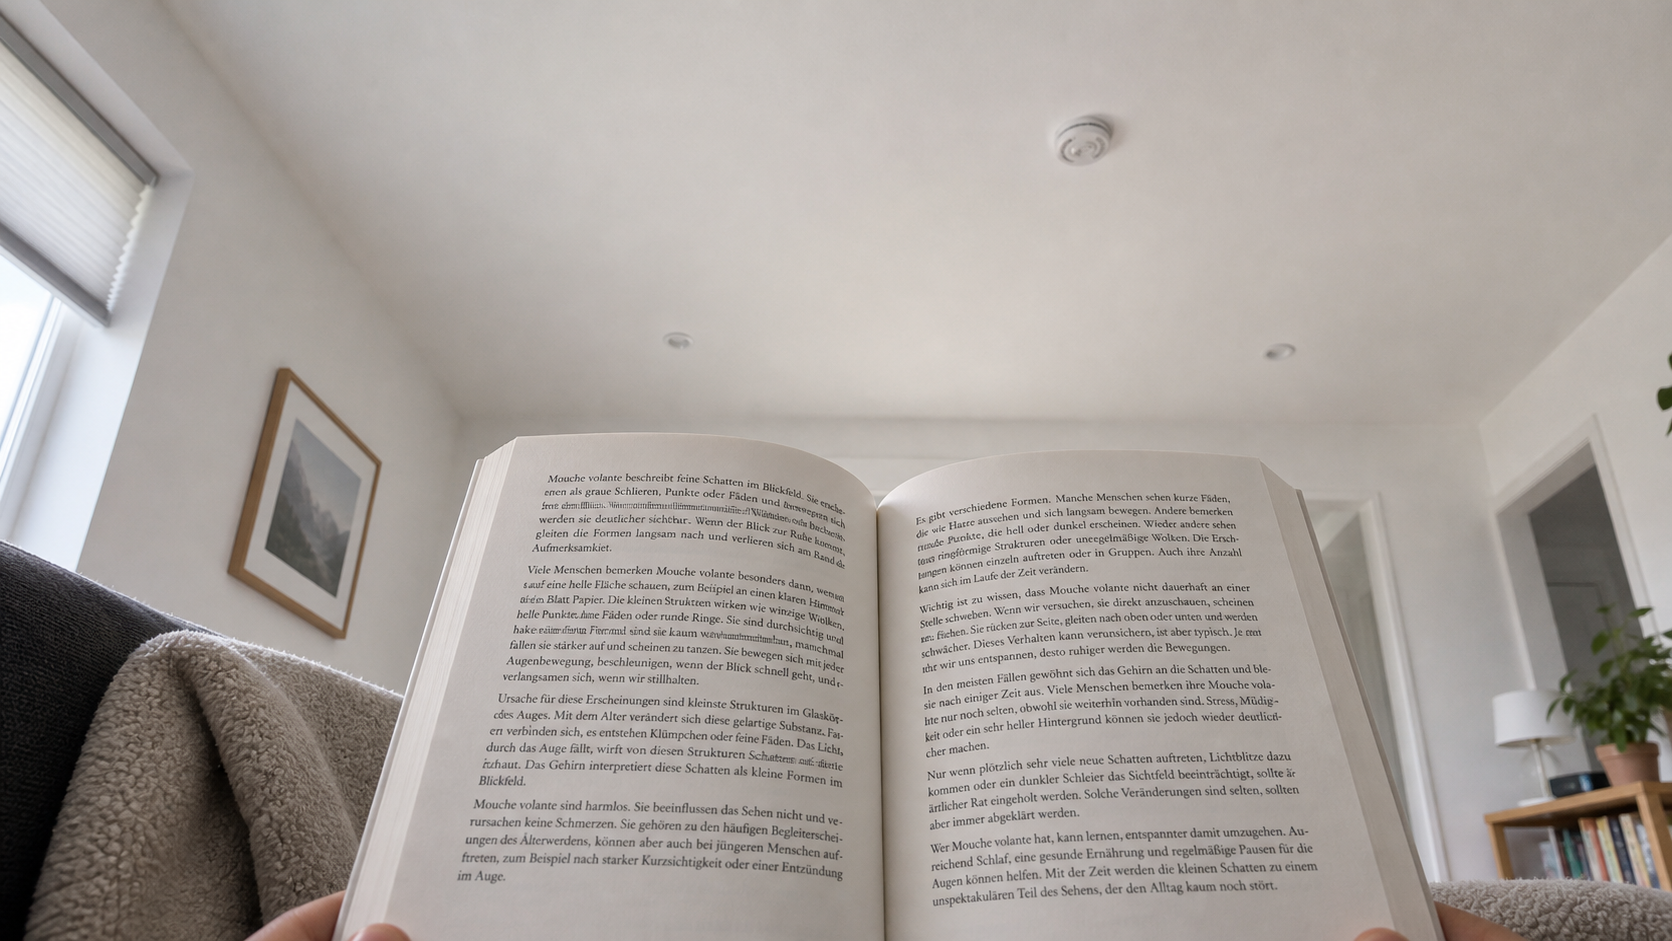
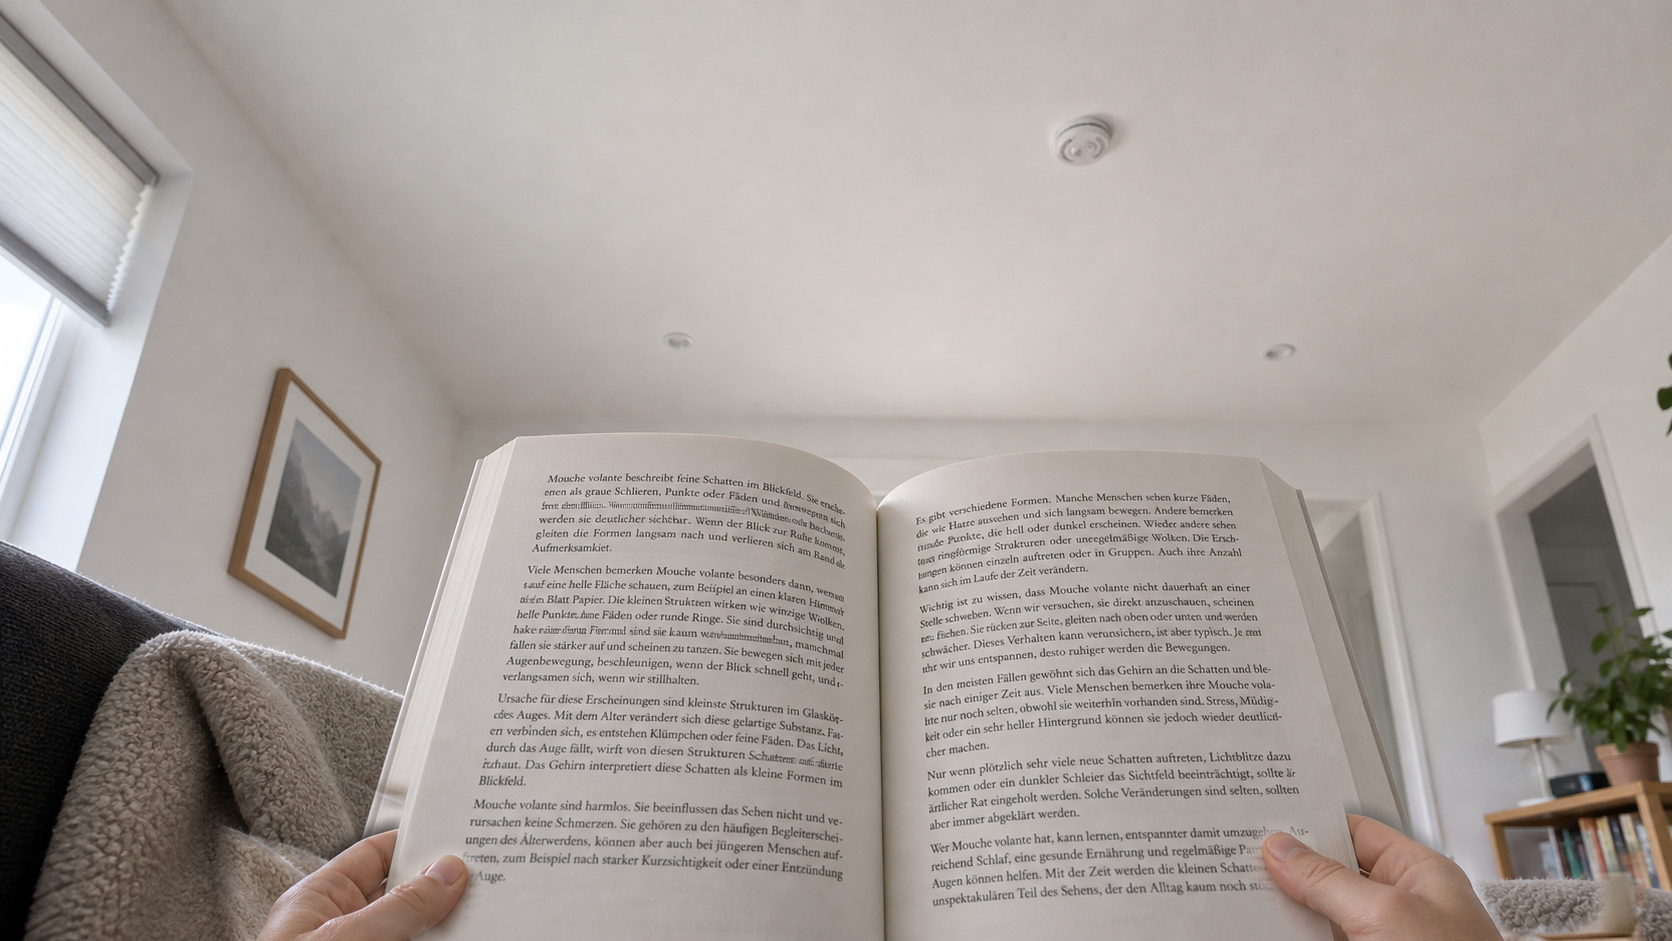
Improve animation performance

Changed region(s): [[0.7464, 0.8629, 0.9952, 1.0], [0.1244, 0.8321, 0.311, 1.0]]

diff --git a/legacy-elements.js b/legacy-elements.js
@@ -56,8 +56,8 @@ const FLOATER_EASE       = 0.08;
 
 /* Fleck als Mini-Superfleck (lokal am Floater) – RESET auf Referenz */
 const FLECK_SUPER_SIZE      = 44;
-const FLECK_SUPER_TINT      = [18,19,24];           // dunklerer HF-Fleck
-const FLECK_SUPER_ALPHA     = 0.54;
+const FLECK_SUPER_TINT      = [72,74,84];           // deutlich hellerer HF-Fleck
+const FLECK_SUPER_ALPHA     = 0.46;
 const FLECK_SUPER_FEATHER   = 1.05;
 const FLECK_SUPER_DRAW_W    = 60 * SCALE * 0.9 * 0.9 * 0.9 * 0.9 * 0.9 * 0.82 * 1.06; // etwas größer
 const FLECK_SUPER_DRAW_H    = FLECK_SUPER_DRAW_W * 0.88;
@@ -96,7 +96,7 @@ const BIGGER_SPEED_SCALE    = 0.15;
 
 /* ======= Grauer Superfleck (visuell rechts, dunkler) ======= */
 const SMALLER_POS_XF          = 0.62;
-const SMALLER_POS_YF          = 0.75;
+const SMALLER_POS_YF          = 0.70;
 const CLOUD_SMALLER_SIZE      = (BASE_UNIT_RADIUS * 2.2 * 5.0 * 5.25 * 0.5 * 0.7 * 0.8) * 0.75 * 1.5 * 2.0 * 0.9 * 0.9 * 0.9 * 0.86;
 const CLOUD_SMALLER_TINT      = [30,30,40];    // dunkler (rechts)
 const CLOUD_SMALLER_ALPHA     = 0.16;
@@ -111,7 +111,7 @@ const ORIGINAL_SCHL_COUNT = BASE_SCHL_COUNT + EXTRA_SCHL_COUNT;
 const SOFT_EXTRA_SCHL_COUNT = 22;
 const SCHL_COUNT        = ORIGINAL_SCHL_COUNT + SOFT_EXTRA_SCHL_COUNT;
 const SCHLC_TINT        = [98,100,114];
-const SCHLC_ALPHA       = 0.237;  // sehr transparent
+const SCHLC_ALPHA       = 0.190;  // sehr transparent
 const SCHLC_FEATHER     = 5.6;
 const SCHLC_LEN_MIN     = 76 * SCALE;
 const SCHLC_LEN_MAX     = 300 * SCALE;
@@ -3310,7 +3310,7 @@ const SHOW_CLOUDS = true;
 const SHOW_CLOUD_LABELS = false;
 const SHOW_SMALLER_CLOUD = false;
 const ELEMENT_ALPHA = 1.42;
-const NON_HF_ELEMENT_ALPHA = 2.45;
+const NON_HF_ELEMENT_ALPHA = 0.62;
 
 function elementVisibilityFactor(label) {
   if (label === 'Nuclei-Gruppe') return 0.38;
@@ -3532,7 +3532,7 @@ function markGreyCloudVariant(label, x, y, w, h) {
 function drawGreyCloudFleckSchliereStyle(cloud) {
 }
 
-function drawHFStyleCloudFleck(cloud, sizeMul = 1, softnessMul = 1, alphaMul = 1) {
+function drawHFStyleCloudFleck(cloud, sizeMul = 1, softnessMul = 1, alphaMul = 1, brightnessMul = 0.95, contrastMul = 0.98) {
   if (!SHOW_CLOUDS || !cloud) return;
   const x = cloud.pos.x;
   const y = cloud.pos.y + cloud.size * 0.00;
@@ -3543,7 +3543,7 @@ function drawHFStyleCloudFleck(cloud, sizeMul = 1, softnessMul = 1, alphaMul = 1
   drawingContext.save();
   if (floaterFleckCloud) {
     imageMode(CENTER);
-    drawingContext.filter = `brightness(0.66) contrast(1.08) blur(${FLECK_SUPER_BLUR_PX * 5.4 * softnessMul * cloudSoftness}px)`;
+    drawingContext.filter = `brightness(${brightnessMul}) contrast(${contrastMul}) blur(${FLECK_SUPER_BLUR_PX * 5.4 * softnessMul * cloudSoftness}px)`;
     tint(255, Math.min(255, Math.round((255 * alphaMul * cloudAlpha) / Math.max(1, softnessMul * 0.78))));
     image(floaterFleckCloud.pg, x, y, w, h);
     noTint();
@@ -3629,9 +3629,9 @@ function schliereThicknessMul(sc) {
 }
 
 function schliereAlphaMul(sc) {
-  if (sc._extraSoftSchliere) return 0.38;
-  if (sc._softSchliere) return 0.54;
-  return 1.12;
+  if (sc._extraSoftSchliere) return 0.32;
+  if (sc._softSchliere) return 0.45;
+  return 0.90;
 }
 
 function resetSchliereRenderFlags(sc, n) {
@@ -5577,7 +5577,7 @@ class FloaterPath {
     push();
     scale(this.lengthStretch * 0.92, 1);  // minimal horizontal zusammengestaucht
     drawingContext.save();
-    drawingContext.globalAlpha *= 0.78;
+    drawingContext.globalAlpha *= 0.92;
 
     // 1) Äußerster Gel-Glow – breit, sichtbar transparent, leicht weisslicher
     drawingContext.filter = 'blur(8px)';
@@ -5756,7 +5756,7 @@ class FloaterPath {
     image(floaterFleckCloud.pg, 0, 0, FLECK_SUPER_DRAW_W, FLECK_SUPER_DRAW_H);
     drawingContext.save();
     drawingContext.filter = `blur(${FLECK_SUPER_BLUR_PX * 2.4}px)`;
-    drawingContext.fillStyle = 'rgba(8, 9, 13, 0.34)';
+    drawingContext.fillStyle = 'rgba(64, 66, 76, 0.24)';
     drawingContext.beginPath();
     drawingContext.ellipse(
       FLECK_SUPER_DRAW_W * 0.22,
@@ -6859,7 +6859,7 @@ function draw() {
   // Kern weich angeglichen an Corona: größer, diffuser, geringerer Alpha
   // → keine harte Trennung mehr zwischen heller Corona und dunklem Kern
   {
-    drawHFStyleCloudFleck(biggerCloud, 1.22, 1, 2.15);
+    drawHFStyleCloudFleck(biggerCloud, 1.22, 1, 2.30, 1.22, 0.90);
     drawCloudLabel('F1', biggerCloud);
     if (upperLeftGreyCloud) {
       const f2Follow = createVector(
@@ -6875,7 +6875,7 @@ function draw() {
         1.55
       );
     }
-    drawHFStyleCloudFleck(upperLeftGreyCloud, 1.0, 2.10, 3.05);
+    drawHFStyleCloudFleck(upperLeftGreyCloud, 1.0, 2.10, 3.15);
     drawCloudLabel('F2', upperLeftGreyCloud);
     if (SHOW_CLOUDS) {
       f2CenterCopies.forEach((c, i) => {
@@ -6884,7 +6884,7 @@ function draw() {
           mouseDirNS.y * 0.72 + cos(frameCount * 0.012 + i) * 0.06
         );
         c.update(mouseMoving, [0.39, 0.61], [0.42, 0.62], SMALLER_SPEED_SCALE * 1.08, follow, 1.28);
-        drawHFStyleCloudFleck(c, 1.0, 2.10, 3.05);
+        drawHFStyleCloudFleck(c, 1.0, 2.10, 3.15);
       });
     }
   }
@@ -6997,7 +6997,7 @@ function draw() {
       smallerFollow,
       2.05
     );
-    drawHFStyleCloudFleck(smallerCloud, 1.0, 2.10, 2.65);
+    drawHFStyleCloudFleck(smallerCloud, 1.0, 2.10, 2.75);
     drawCloudLabel('F3', smallerCloud);
   }
   // Weisser Superfleck temporÃ¤r ausgeblendet.

diff --git a/schlieren.js b/schlieren.js
@@ -15,9 +15,9 @@ let targetGlobalOrbitAngle = 0;
 let travelPhase = 0;
 let frameIndex = 0;
 let motionTotal = { x: 0, y: 0 };
-const SCHLIERE_SPRITE_REFRESH_FRAMES = 4;
+const SCHLIERE_SPRITE_REFRESH_FRAMES = 8;
 const SCHLIEREN_ALPHA_MUL = 1.26;
-const GREY_SCHLIEREN_ALPHA_MUL = 1.10;
+const GREY_SCHLIEREN_ALPHA_MUL = 0.86;
 const LIGHT_SCHLIEREN_ALPHA_MUL = 1.22;
 const SCHLIEREN_THICKNESS_MUL = 0.86;
 
@@ -92,11 +92,11 @@ const HELLE_SCHLIEREN = [
 const ALLE_SCHLIEREN = SCHLIEREN.concat(HELLE_SCHLIEREN);
 
 const SCHLIEREN_FLECKEN = [
-  { x: 0.23, y: 0.24, size: 17, alpha: 0.10, angle: -0.35, seed: 101.1 },
-  { x: 0.73, y: 0.28, size: 14, alpha: 0.08, angle: 0.18, seed: 102.2 },
-  { x: 0.46, y: 0.47, size: 19, alpha: 0.09, angle: -0.12, seed: 103.3 },
-  { x: 0.18, y: 0.72, size: 12, alpha: 0.07, angle: 0.42, seed: 104.4 },
-  { x: 0.82, y: 0.76, size: 15, alpha: 0.085, angle: -0.25, seed: 105.5 }
+  { x: 0.23, y: 0.24, size: 17, alpha: 0.072, angle: -0.35, seed: 101.1 },
+  { x: 0.73, y: 0.28, size: 14, alpha: 0.058, angle: 0.18, seed: 102.2 },
+  { x: 0.46, y: 0.47, size: 19, alpha: 0.065, angle: -0.12, seed: 103.3 },
+  { x: 0.18, y: 0.72, size: 12, alpha: 0.050, angle: 0.42, seed: 104.4 },
+  { x: 0.82, y: 0.76, size: 15, alpha: 0.061, angle: -0.25, seed: 105.5 }
 ];
 
 const ELEMENTE = [];
@@ -154,7 +154,7 @@ function stable01(seed) {
 }
 
 function resize() {
-  const dpr = Math.max(1, window.devicePixelRatio || 1);
+  const dpr = 1;
   canvas.width = Math.round(window.innerWidth * dpr);
   canvas.height = Math.round(window.innerHeight * dpr);
   ctx = mainCtx;
@@ -536,7 +536,7 @@ function drawElement(item) {
   else if (item.kind === 'nuclei') drawNucleiGroup(item.alpha);
   else if (item.kind === 'triangle') drawTriangleGroup(item.alpha);
   else if (item.kind === 'round') drawRoundElement(item.alpha);
-  else drawDiffuseCloud(item.alpha, item.kind === 'greycloud' ? 95 : 58);
+  else drawDiffuseCloud(item.alpha * 1.28, item.kind === 'greycloud' ? 95 : 58);
 
   ctx.restore();
 }

diff --git a/index.html b/index.html
@@ -4,7 +4,7 @@
   <meta charset="utf-8">
   <meta name="viewport" content="width=device-width, initial-scale=1">
   <title>Mouche Volante - Book</title>
-  <link rel="preload" as="image" href="bg-book-pov.png?v=book-image-1">
+  <link rel="preload" as="image" href="bg-book-pov.png?v=book-image-hands-1">
   <link rel="stylesheet" href="style.css?v=book-image-2">
 </head>
 <body class="is-loading">
@@ -19,7 +19,7 @@
       const img = new Image();
       img.onload = resolve;
       img.onerror = resolve;
-      img.src = "bg-book-pov.png?v=book-image-1";
+      img.src = "bg-book-pov.png?v=book-image-hands-1";
     });
     Promise.all([bgReady, new Promise((resolve) => requestAnimationFrame(() => requestAnimationFrame(resolve)))])
       .then(() => document.body.classList.remove("is-loading"));

diff --git a/style.css b/style.css
@@ -12,9 +12,9 @@ body {
   width: 140vw;
   height: 140vh;
   left: -20vw;
-  top: -42vh;
+  top: -31vh;
   overflow: hidden;
-  background: #ece7de url("bg-book-pov.png?v=book-image-1") center bottom / cover no-repeat;
+  background: #ece7de url("bg-book-pov.png?v=book-image-hands-1") center bottom / cover no-repeat;
   transition: none;
   transform-origin: center center;
   will-change: transform;